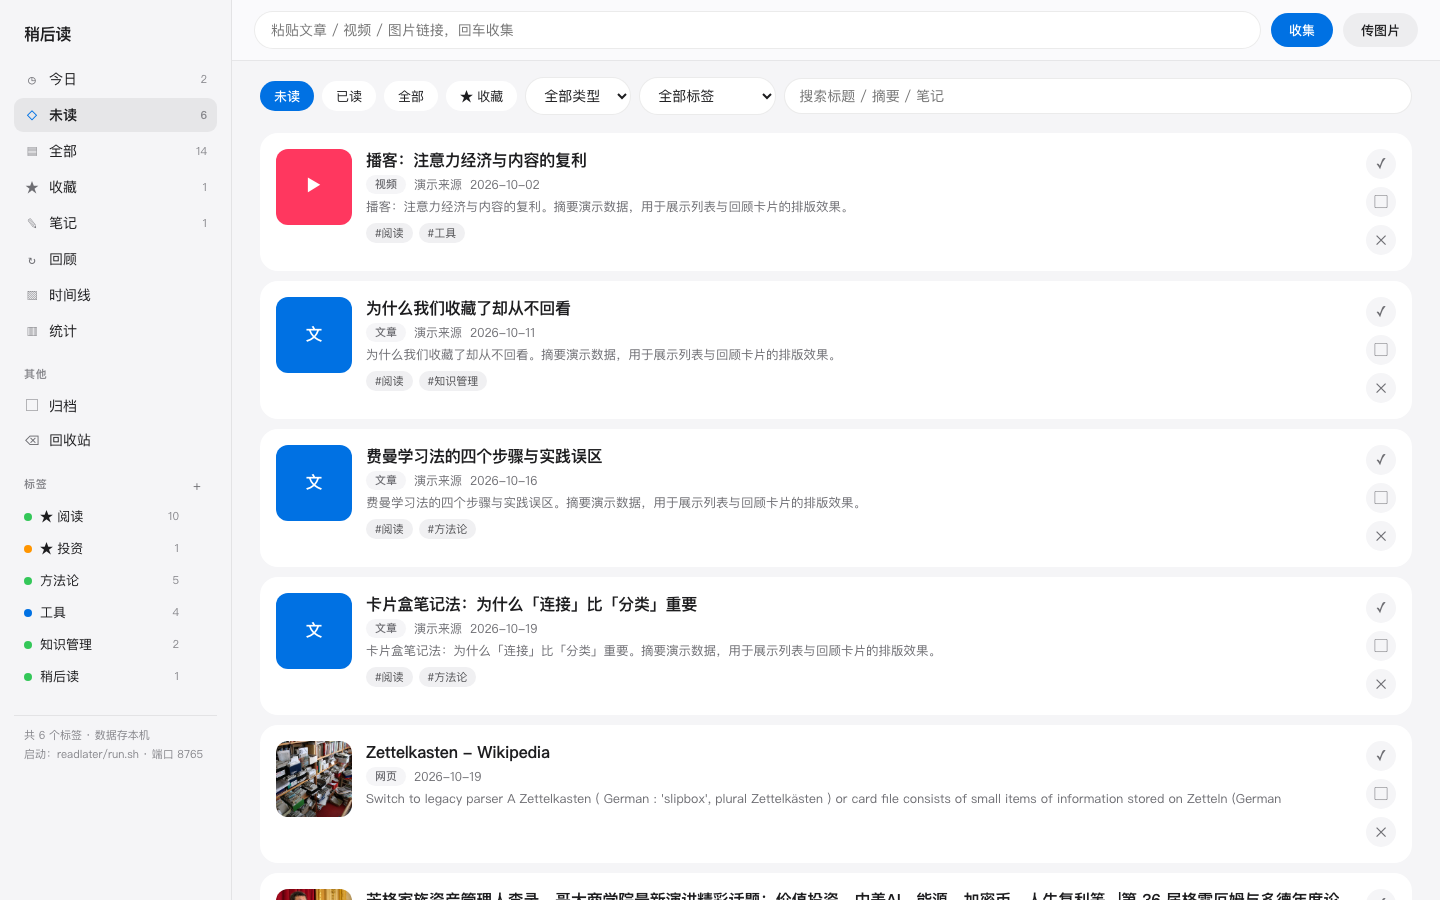
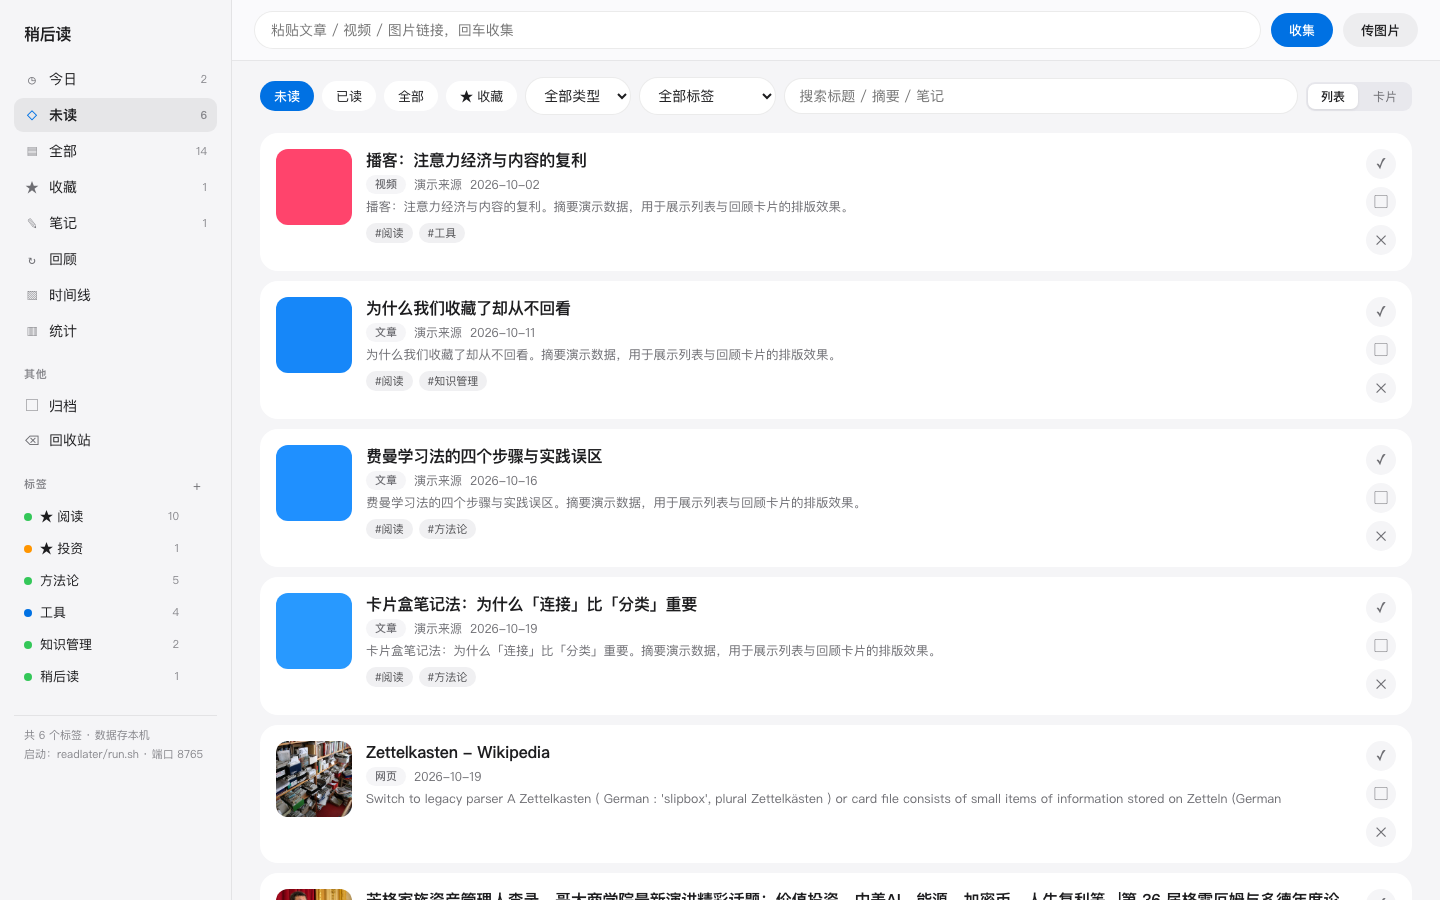
docs: 增补卡片墙截图与视图切换说明

Changed region(s): [[0.1875, 0.6533, 0.25, 0.7467], [0.1875, 0.4978, 0.25, 0.5911], [0.9062, 0.0933, 0.9688, 0.1244]]

diff --git a/README.md b/README.md
@@ -27,6 +27,10 @@ ReadLater 只做三件事：
 | **时间线 · 月历与记录流** | **统计 · 热力图与连击** |
 | ![时间线](assets/screenshot-timeline.png) | ![统计](assets/screenshot-stats.png) |
 
+**卡片墙视图**（顶栏一键切换，`#grid` 深链接直达，偏好本地记忆）：
+
+![卡片墙](assets/screenshot-grid.png)
+
 ## 功能
 
 - **收件通道**：界面粘贴框 / 浏览器书签（Bookmarklet）/ iOS 快捷指令 / 图片上传
@@ -38,6 +42,7 @@ ReadLater 只做三件事：
 - **时间线**：月历选日期（有记录的日期带标记），下方按时间轴看当天的收藏 / 已读 / 回顾记录
 - **标签管理**：颜色（同名恒同色）、置顶、改名（同步改写全部条目）、删除
 - **统计**：近半年活动热力图（收藏 / 回顾双模式）、总览数字、类型分布
+- **两种浏览模式**：列表 / **大封面卡片墙**（响应式 2–5 列，hover 显示快速操作），偏好存本地；`#grid` 深链接直达
 - **界面**：Apple 官网风格；手机浏览器「添加到主屏幕」即为 App；支持深链接 `#review` `#timeline` `#stats` `#fav`
 - **键盘操作**：回顾页 `1` 快看 · `2` 还行 · `3` 已熟 · `0` 归档 · `F` 收藏
 
